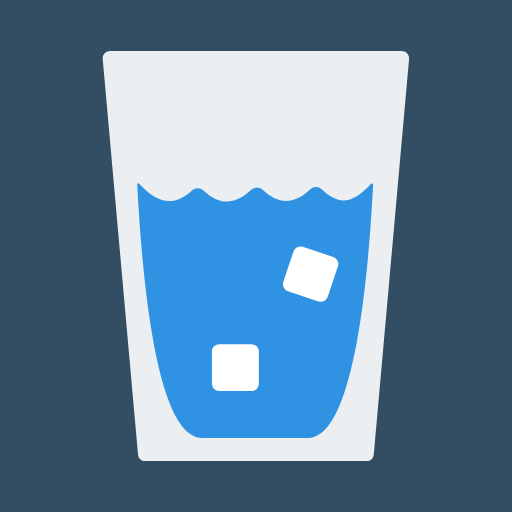
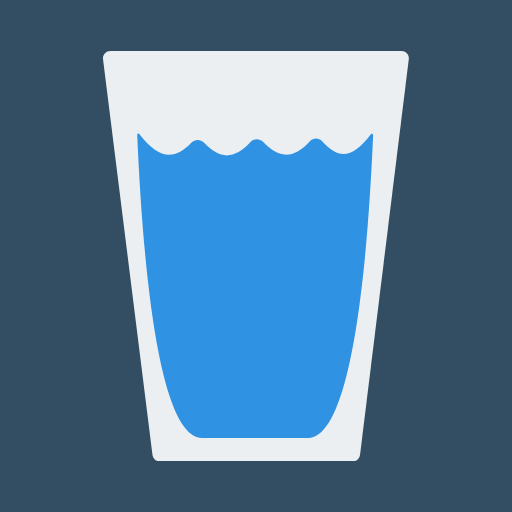
Updates

diff --git a/index.html b/index.html
@@ -1,1 +1,1 @@
-<!doctype html><html lang="en"><head><meta charset="UTF-8"/><meta name="viewport" content="width=device-width,initial-scale=1"/><title>WaterGlass</title><meta name="description" content="WaterGlass | The app which help you count water glasses you drink every day. Just to stay healthy."/><meta property="og:title" content="WaterGlass"/><meta property="og:description" content="The app which help you count water glasses you drink every day."/><meta property="og:url" content=""/><meta property="og:image" content=""/><link rel="manifest" href="manifest.json"/><link rel="apple-touch-icon" sizes="180x180" href="pwa/apple-icon-180.png"/><link rel="apple-touch-icon" sizes="167x167" href="pwa/apple-icon-167.png"/><link rel="apple-touch-icon" sizes="152x152" href="pwa/apple-icon-152.png"/><link rel="apple-touch-icon" sizes="120x120" href="pwa/apple-icon-120.png"/><meta name="apple-mobile-web-app-capable" content="yes"/><link rel="apple-touch-startup-image" href="pwa/apple-splash-2048-2732.png" media="(device-width: 1024px) and (device-height: 1366px) and (-webkit-device-pixel-ratio: 2) and (orientation: portrait)"/><link rel="apple-touch-startup-image" href="pwa/apple-splash-2732-2048.png" media="(device-width: 1024px) and (device-height: 1366px) and (-webkit-device-pixel-ratio: 2) and (orientation: landscape)"/><link rel="apple-touch-startup-image" href="pwa/apple-splash-1668-2388.png" media="(device-width: 834px) and (device-height: 1194px) and (-webkit-device-pixel-ratio: 2) and (orientation: portrait)"/><link rel="apple-touch-startup-image" href="pwa/apple-splash-2388-1668.png" media="(device-width: 834px) and (device-height: 1194px) and (-webkit-device-pixel-ratio: 2) and (orientation: landscape)"/><link rel="apple-touch-startup-image" href="pwa/apple-splash-1536-2048.png" media="(device-width: 768px) and (device-height: 1024px) and (-webkit-device-pixel-ratio: 2) and (orientation: portrait)"/><link rel="apple-touch-startup-image" href="pwa/apple-splash-2048-1536.png" media="(device-width: 768px) and (device-height: 1024px) and (-webkit-device-pixel-ratio: 2) and (orientation: landscape)"/><link rel="apple-touch-startup-image" href="pwa/apple-splash-1668-2224.png" media="(device-width: 834px) and (device-height: 1112px) and (-webkit-device-pixel-ratio: 2) and (orientation: portrait)"/><link rel="apple-touch-startup-image" href="pwa/apple-splash-2224-1668.png" media="(device-width: 834px) and (device-height: 1112px) and (-webkit-device-pixel-ratio: 2) and (orientation: landscape)"/><link rel="apple-touch-startup-image" href="pwa/apple-splash-1620-2160.png" media="(device-width: 810px) and (device-height: 1080px) and (-webkit-device-pixel-ratio: 2) and (orientation: portrait)"/><link rel="apple-touch-startup-image" href="pwa/apple-splash-2160-1620.png" media="(device-width: 810px) and (device-height: 1080px) and (-webkit-device-pixel-ratio: 2) and (orientation: landscape)"/><link rel="apple-touch-startup-image" href="pwa/apple-splash-1242-2688.png" media="(device-width: 414px) and (device-height: 896px) and (-webkit-device-pixel-ratio: 3) and (orientation: portrait)"/><link rel="apple-touch-startup-image" href="pwa/apple-splash-2688-1242.png" media="(device-width: 414px) and (device-height: 896px) and (-webkit-device-pixel-ratio: 3) and (orientation: landscape)"/><link rel="apple-touch-startup-image" href="pwa/apple-splash-1125-2436.png" media="(device-width: 375px) and (device-height: 812px) and (-webkit-device-pixel-ratio: 3) and (orientation: portrait)"/><link rel="apple-touch-startup-image" href="pwa/apple-splash-2436-1125.png" media="(device-width: 375px) and (device-height: 812px) and (-webkit-device-pixel-ratio: 3) and (orientation: landscape)"/><link rel="apple-touch-startup-image" href="pwa/apple-splash-828-1792.png" media="(device-width: 414px) and (device-height: 896px) and (-webkit-device-pixel-ratio: 2) and (orientation: portrait)"/><link rel="apple-touch-startup-image" href="pwa/apple-splash-1792-828.png" media="(device-width: 414px) and (device-height: 896px) and (-webkit-device-pixel-ratio: 2) and (orientation: landscape)"/><link rel="apple-touch-startup-image" href="pwa/apple-splash-1080-1920.png" media="(device-width: 360px) and (device-height: 640px) and (-webkit-device-pixel-ratio: 3) and (orientation: portrait)"/><link rel="apple-touch-startup-image" href="pwa/apple-splash-1920-1080.png" media="(device-width: 360px) and (device-height: 640px) and (-webkit-device-pixel-ratio: 3) and (orientation: landscape)"/><link rel="apple-touch-startup-image" href="pwa/apple-splash-750-1334.png" media="(device-width: 375px) and (device-height: 667px) and (-webkit-device-pixel-ratio: 2) and (orientation: portrait)"/><link rel="apple-touch-startup-image" href="pwa/apple-splash-1334-750.png" media="(device-width: 375px) and (device-height: 667px) and (-webkit-device-pixel-ratio: 2) and (orientation: landscape)"/><link rel="apple-touch-startup-image" href="pwa/apple-splash-640-1136.png" media="(device-width: 320px) and (device-height: 568px) and (-webkit-device-pixel-ratio: 2) and (orientation: portrait)"/><link rel="apple-touch-startup-image" href="pwa/apple-splash-1136-640.png" media="(device-width: 320px) and (device-height: 568px) and (-webkit-device-pixel-ratio: 2) and (orientation: landscape)"/><link href="index.bceb1028.css" rel="stylesheet"></head><body><main><img class="logo" src="img/logo.992625d8.svg" alt="Glass of water."/></main><script src="index.bceb1028.js"></script></body></html>
+<!doctype html><html lang="en"><head><meta charset="UTF-8"/><meta name="viewport" content="width=device-width,initial-scale=1"/><title>WaterGlass</title><meta name="description" content="WaterGlass | The app which help you count water glasses you drink every day. Just to stay healthy."/><meta property="og:title" content="WaterGlass"/><meta property="og:description" content="The app which help you count water glasses you drink every day."/><meta property="og:url" content="https://bartoszbialecki.github.io/waterglass/"/><meta property="og:image" content/><link rel="manifest" href="manifest.json"/><link rel="apple-touch-icon" sizes="180x180" href="pwa/apple-icon-180.png"/><link rel="apple-touch-icon" sizes="167x167" href="pwa/apple-icon-167.png"/><link rel="apple-touch-icon" sizes="152x152" href="pwa/apple-icon-152.png"/><link rel="apple-touch-icon" sizes="120x120" href="pwa/apple-icon-120.png"/><meta name="apple-mobile-web-app-capable" content="yes"/><link rel="apple-touch-startup-image" href="pwa/apple-splash-2048-2732.png" media="(device-width: 1024px) and (device-height: 1366px) and (-webkit-device-pixel-ratio: 2) and (orientation: portrait)"/><link rel="apple-touch-startup-image" href="pwa/apple-splash-2732-2048.png" media="(device-width: 1024px) and (device-height: 1366px) and (-webkit-device-pixel-ratio: 2) and (orientation: landscape)"/><link rel="apple-touch-startup-image" href="pwa/apple-splash-1668-2388.png" media="(device-width: 834px) and (device-height: 1194px) and (-webkit-device-pixel-ratio: 2) and (orientation: portrait)"/><link rel="apple-touch-startup-image" href="pwa/apple-splash-2388-1668.png" media="(device-width: 834px) and (device-height: 1194px) and (-webkit-device-pixel-ratio: 2) and (orientation: landscape)"/><link rel="apple-touch-startup-image" href="pwa/apple-splash-1536-2048.png" media="(device-width: 768px) and (device-height: 1024px) and (-webkit-device-pixel-ratio: 2) and (orientation: portrait)"/><link rel="apple-touch-startup-image" href="pwa/apple-splash-2048-1536.png" media="(device-width: 768px) and (device-height: 1024px) and (-webkit-device-pixel-ratio: 2) and (orientation: landscape)"/><link rel="apple-touch-startup-image" href="pwa/apple-splash-1668-2224.png" media="(device-width: 834px) and (device-height: 1112px) and (-webkit-device-pixel-ratio: 2) and (orientation: portrait)"/><link rel="apple-touch-startup-image" href="pwa/apple-splash-2224-1668.png" media="(device-width: 834px) and (device-height: 1112px) and (-webkit-device-pixel-ratio: 2) and (orientation: landscape)"/><link rel="apple-touch-startup-image" href="pwa/apple-splash-1620-2160.png" media="(device-width: 810px) and (device-height: 1080px) and (-webkit-device-pixel-ratio: 2) and (orientation: portrait)"/><link rel="apple-touch-startup-image" href="pwa/apple-splash-2160-1620.png" media="(device-width: 810px) and (device-height: 1080px) and (-webkit-device-pixel-ratio: 2) and (orientation: landscape)"/><link rel="apple-touch-startup-image" href="pwa/apple-splash-1242-2688.png" media="(device-width: 414px) and (device-height: 896px) and (-webkit-device-pixel-ratio: 3) and (orientation: portrait)"/><link rel="apple-touch-startup-image" href="pwa/apple-splash-2688-1242.png" media="(device-width: 414px) and (device-height: 896px) and (-webkit-device-pixel-ratio: 3) and (orientation: landscape)"/><link rel="apple-touch-startup-image" href="pwa/apple-splash-1125-2436.png" media="(device-width: 375px) and (device-height: 812px) and (-webkit-device-pixel-ratio: 3) and (orientation: portrait)"/><link rel="apple-touch-startup-image" href="pwa/apple-splash-2436-1125.png" media="(device-width: 375px) and (device-height: 812px) and (-webkit-device-pixel-ratio: 3) and (orientation: landscape)"/><link rel="apple-touch-startup-image" href="pwa/apple-splash-828-1792.png" media="(device-width: 414px) and (device-height: 896px) and (-webkit-device-pixel-ratio: 2) and (orientation: portrait)"/><link rel="apple-touch-startup-image" href="pwa/apple-splash-1792-828.png" media="(device-width: 414px) and (device-height: 896px) and (-webkit-device-pixel-ratio: 2) and (orientation: landscape)"/><link rel="apple-touch-startup-image" href="pwa/apple-splash-1080-1920.png" media="(device-width: 360px) and (device-height: 640px) and (-webkit-device-pixel-ratio: 3) and (orientation: portrait)"/><link rel="apple-touch-startup-image" href="pwa/apple-splash-1920-1080.png" media="(device-width: 360px) and (device-height: 640px) and (-webkit-device-pixel-ratio: 3) and (orientation: landscape)"/><link rel="apple-touch-startup-image" href="pwa/apple-splash-750-1334.png" media="(device-width: 375px) and (device-height: 667px) and (-webkit-device-pixel-ratio: 2) and (orientation: portrait)"/><link rel="apple-touch-startup-image" href="pwa/apple-splash-1334-750.png" media="(device-width: 375px) and (device-height: 667px) and (-webkit-device-pixel-ratio: 2) and (orientation: landscape)"/><link rel="apple-touch-startup-image" href="pwa/apple-splash-640-1136.png" media="(device-width: 320px) and (device-height: 568px) and (-webkit-device-pixel-ratio: 2) and (orientation: portrait)"/><link rel="apple-touch-startup-image" href="pwa/apple-splash-1136-640.png" media="(device-width: 320px) and (device-height: 568px) and (-webkit-device-pixel-ratio: 2) and (orientation: landscape)"/><link href="index.693ca41f.css" rel="stylesheet"></head><body><main><img class="logo" src="img/logo.ce2d4ae8.svg" alt="Glass of water."/></main><script src="index.693ca41f.js"></script></body></html>
